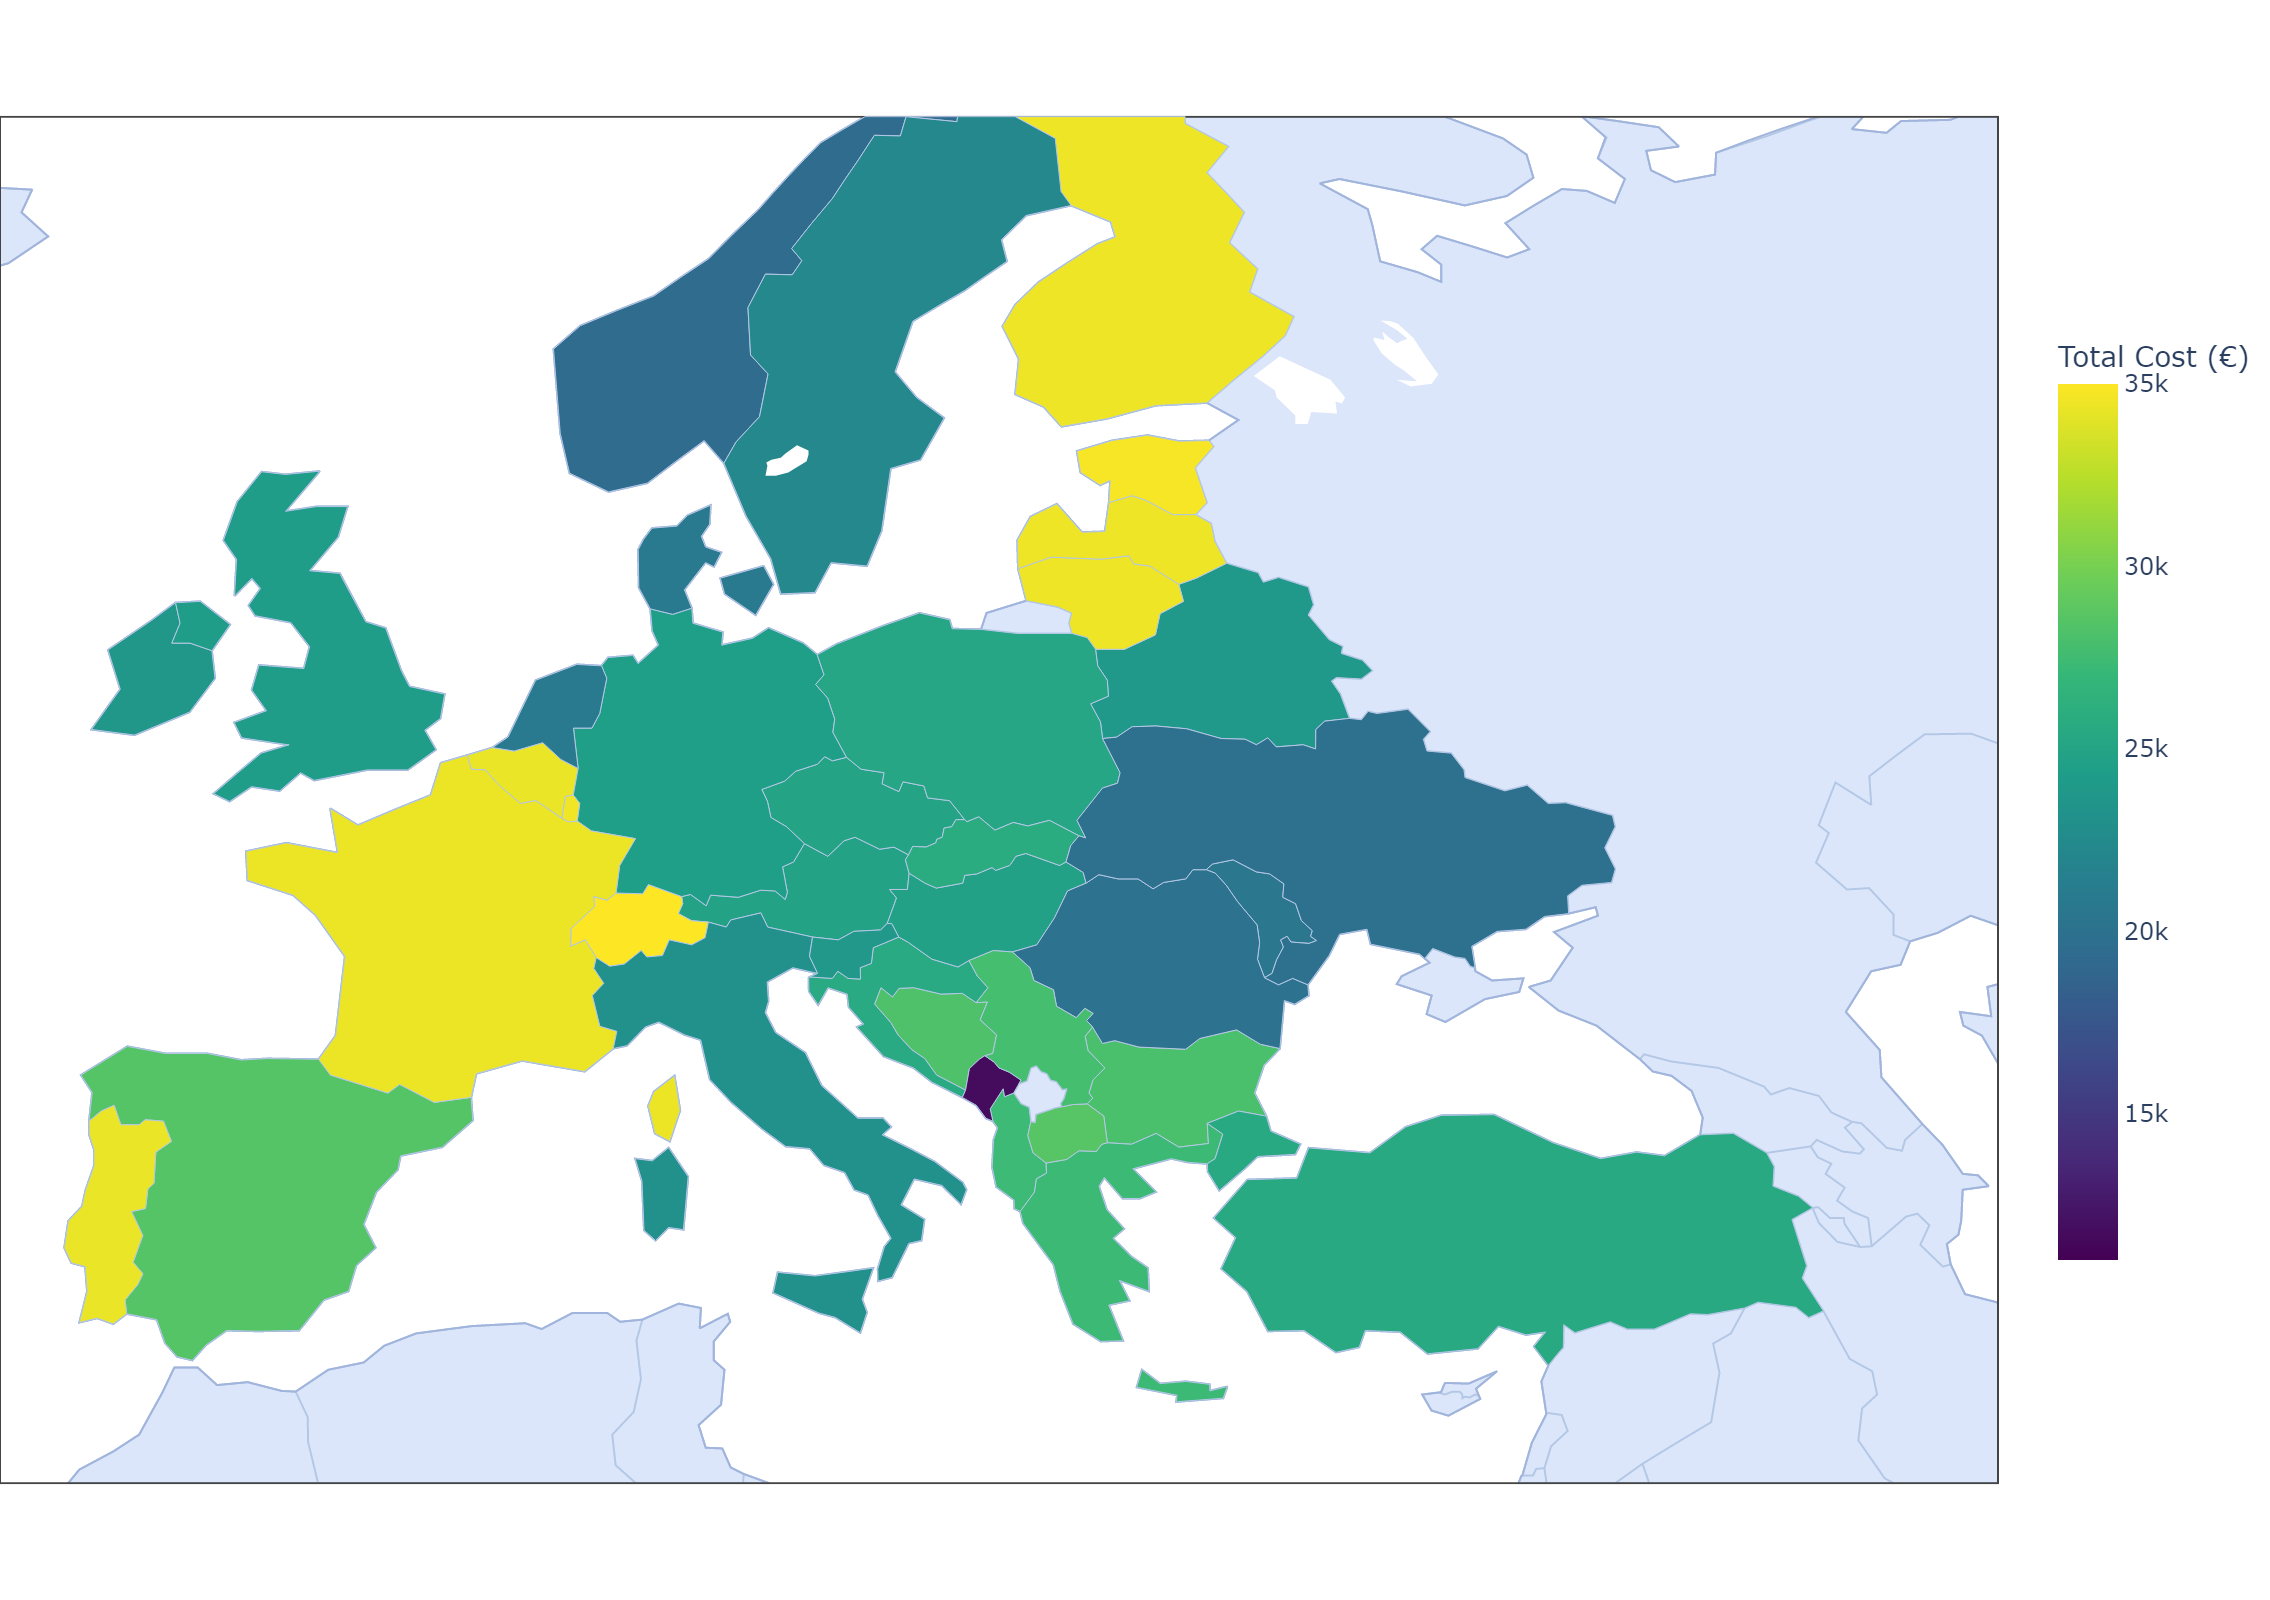
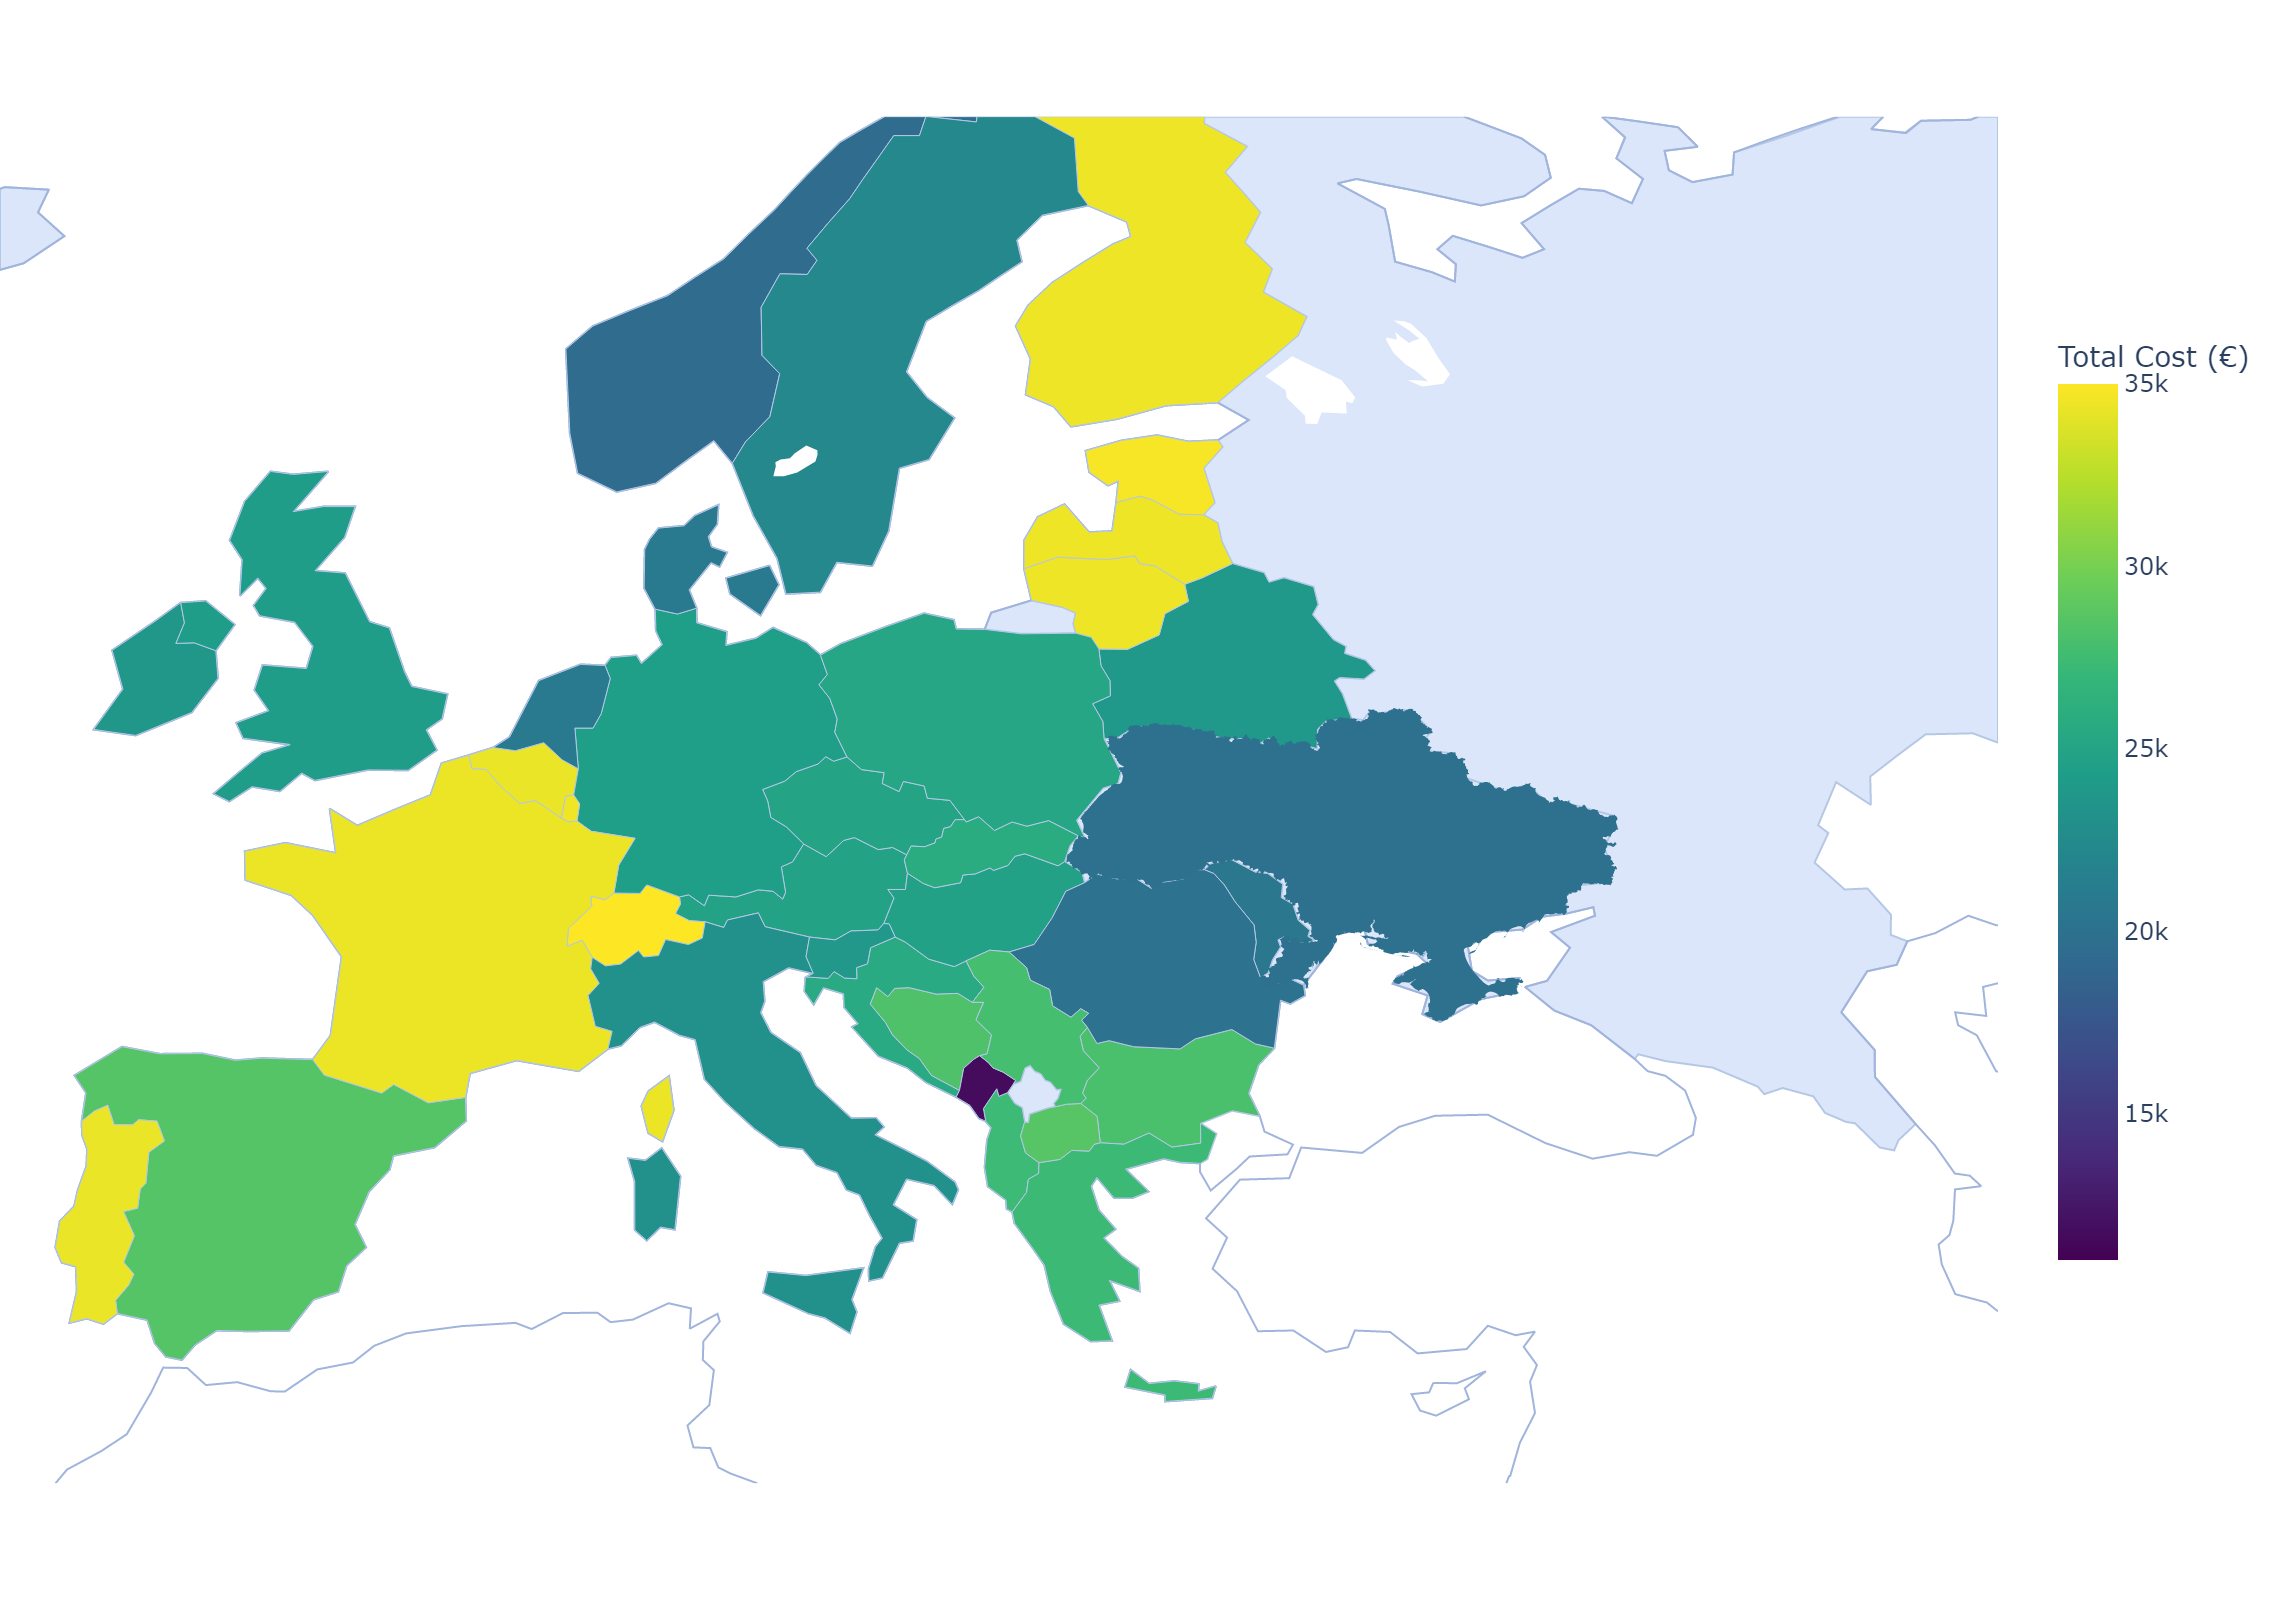
Add legend for pipelines not inluded

diff --git a/00_code_base/08_output_preparation/output_visualization_functions.py b/00_code_base/08_output_preparation/output_visualization_functions.py
@@ -255,12 +255,9 @@ def excluded_pipelines(file_path, sheet_name):
 
     df_excluded = pd.read_excel(file_path, sheet_name)
     df_excluded = df_excluded[df_excluded['Commodity'].str.lower() == 'methane']
-
-    # Rename the columns first, then check if Russia is in 
     df_excluded = df_excluded[['Source', 'Destination']].rename(columns={'Source': 'From', 'Destination': 'To'})
-    df_excluded['InvolvesRussia'] = df_excluded.apply(lambda row: 'Russia' in [row['From'], row['To']], axis=1)
-
     return df_excluded
+
 
 # To process pipelines with Russia and excluded ones 
 def process_pipelines(df, file_name, input_excluded_pipelines):
@@ -269,20 +266,18 @@ def process_pipelines(df, file_name, input_excluded_pipelines):
 
     if scenario_sheet in scenarios_with_exclusion:
         excluded_df = excluded_pipelines(input_excluded_pipelines, scenario_sheet)
+        
         if excluded_df is not None:
             # Merge to identify excluded pipelines but keep them in the DataFrame
             df_final = df.merge(excluded_df, on=['From', 'To'], how='left', indicator=True)
             df_final['Excluded'] = df_final['_merge'] == 'both'
-            df_final['InvolvesRussia'] = df_final['InvolvesRussia'].fillna(False)
             df_final = df_final.drop(columns=['_merge'])
         else:
             df_final = df
             df_final['Excluded'] = False
-            df_final['InvolvesRussia'] = False
     else:
         df_final = df
         df_final['Excluded'] = False
-        df_final['InvolvesRussia'] = False
 
     return df_final
 
@@ -318,12 +313,8 @@ def plot_flow_map(df, ports, imports, title):
     df_pipelines = df[(df['FromType'] == '-') & (df['ToType'] == '-')]
  
     for _, row in df_pipelines.iterrows():
-        if row.get('Excluded', False):
-            line_color = 'black' if row.get('InvolvesRussia', False) else 'gray'
-        else:
-            line_color = flow_color(row['Share'])
+        line_color = 'gray' if row.get('Excluded', False) else flow_color(row['Share'])
 
-        # line_color = flow_color(row['Share'])
         line_width = max(row['Flow'] / 100000, 1.1) if row['Flow'] > 0 else 1
  
         fig.add_trace(go.Scattergeo(
@@ -353,6 +344,14 @@ def plot_flow_map(df, ports, imports, title):
         #hoverinfo='skip',
         name='LNG terminal',
         showlegend=True,
+    ))
+
+    fig.add_trace(go.Scattergeo(
+        lon=[None],
+        lat=[None],
+        mode='lines',
+        line=dict(width=2, color='gray'),
+        name='Not included'
     ))
  
     # Add LNG import points
@@ -460,7 +459,7 @@ def plot_flow_map(df, ports, imports, title):
                 thicknessmode = 'pixels',
                 thickness = 10,
                 x=0.964,  
-                y=0.813,  
+                y=0.773,  
                 xanchor='right',
                 yanchor='top',
                 bgcolor='rgba(255, 255, 255, 0.8)',
@@ -530,11 +529,9 @@ def convert_to_alpha3(iso2):
 def plot_cost_map(input_path, scenario, base_path, geojson_path, save):
     output_file = os.path.join(base_path, "02_plots", "Costs_Results", f"cost_heatmap_{scenario}.png")
 
-    # Load the GeoJSON
     with open(geojson_path, 'r', encoding='utf-8') as f:
         custom_geojson = json.load(f)
 
-    # Load Excel data
     df = pd.read_excel(input_path)
     df.columns = df.columns.str.strip()
 
@@ -545,7 +542,7 @@ def plot_cost_map(input_path, scenario, base_path, geojson_path, save):
     df_ukraine = df[df["Node_ISO3"] == "UKR"]
     df_rest = df[df["Node_ISO3"] != "UKR"]
 
-    color_range = [11000, 35000]  # Fixed color range
+    color_range = [11000, 35000]  
     # color_range = [df["Total Cost"].min(), df["Total Cost"].max()]
 
     fig = go.Figure()
@@ -569,7 +566,7 @@ def plot_cost_map(input_path, scenario, base_path, geojson_path, save):
         name="Rest of Europe"
     ))
 
-    # Ukraine from custom GeoJSON
+    # Ukraine from GeoJSON
     fig.add_trace(go.Choropleth(
         geojson=custom_geojson,
         featureidkey="properties.GID_0",
@@ -579,7 +576,7 @@ def plot_cost_map(input_path, scenario, base_path, geojson_path, save):
         zmin=color_range[0],
         zmax=color_range[1],
         marker_line_color='rgb(180, 200, 230)',
-        marker_line_width=0.5,
+        marker_line_width=0,
         showscale=False,
         name="Ukraine"
     ))
@@ -628,8 +625,8 @@ def plot_cost_difference(input_difference, full_scenario_name, scenario, base_pa
     df_rest = df[df["Node_ISO3"] != "UKR"]
 
     z = df[full_scenario_name]
-    # color_range = [z.min(), z.max()]
-    color_range = [-13000, 7000]
+    color_range = [z.min(), z.max()]
+    #color_range = [-13000, 7000]
 
     # Green to red 
     colorscale = [

diff --git a/00_code_base/08_output_preparation/plot_visualization.py b/00_code_base/08_output_preparation/plot_visualization.py
@@ -13,11 +13,11 @@ base_path = r"C:\Users\mar.eco\OneDrive - CBS - Copenhagen Business School\Deskt
 
 # Import this for save funcroin to work
 # pip install kaleido==0.1.0post1
-save_flow_no_invest = False 
+save_flow_no_invest = True 
 file_name_no_invest = "outputs_IAEE_2025_run_2024"
 title_no_invest = "Cross-border NG flows in 2024"
 
-save_flow_invest = False
+save_flow_invest = True
 file_name_invest = "outputs_IAEE_2025_run_2024_inv"
 title_invest = "Cross-border NG flows without Russian supply for 2024"
 
@@ -219,9 +219,9 @@ with open(json_file_path, "wb") as f:
 print("JSON File downloaded successfully")
 
 data_path = os.path.join(base_path, "01_data", "02_output_data", "02_unidirectional_results", "01_paper_IAEE", "02_prepared_results")
-scenario = "2024_plus_NO_reduced"
-full_name = "costs_shares_IAEE_2025_run_2024_plus_NO_reduced"
-input_file_cost = os.path.join(data_path, "costs_shares_IAEE_2025_run_2024_plus_NO_reduced.xlsx")
+scenario = "2024"
+full_name = "costs_shares_IAEE_2025_run_2024"
+input_file_cost = os.path.join(data_path, "costs_shares_IAEE_2025_run_2024.xlsx")
 
 file_cost_difference_2021 = os.path.join(data_path, "cost_shares_differences_to_2021.xlsx")
 file_cost_difference_2024 = os.path.join(data_path, "cost_shares_differences_to_2024.xlsx")
@@ -229,9 +229,11 @@ file_cost_difference_2035 = os.path.join(data_path, "cost_shares_differences_to_
 
 colorbar_zero_2021 = 0.32
 colorbar_zero_2024 = 0.65
-colorbar_zero_2025 = 0.7
+colorbar_zero_2035 = 0.77
 
-plot_cost_difference(file_cost_difference_2024, full_name, scenario, base_path, colorbar_zero_2024, json_file_path, True)
+
+plot_cost_map(input_file_cost, scenario, base_path, json_file_path, True)
+plot_cost_difference(file_cost_difference_2021, full_name, scenario, base_path, colorbar_zero_2021, json_file_path, True)
 
 # ---------------------------------------------------------------------
 data_path_emissions = os.path.join(base_path, "01_data", "02_output_data", "02_unidirectional_results", "01_paper_IAEE", "02_prepared_results")
